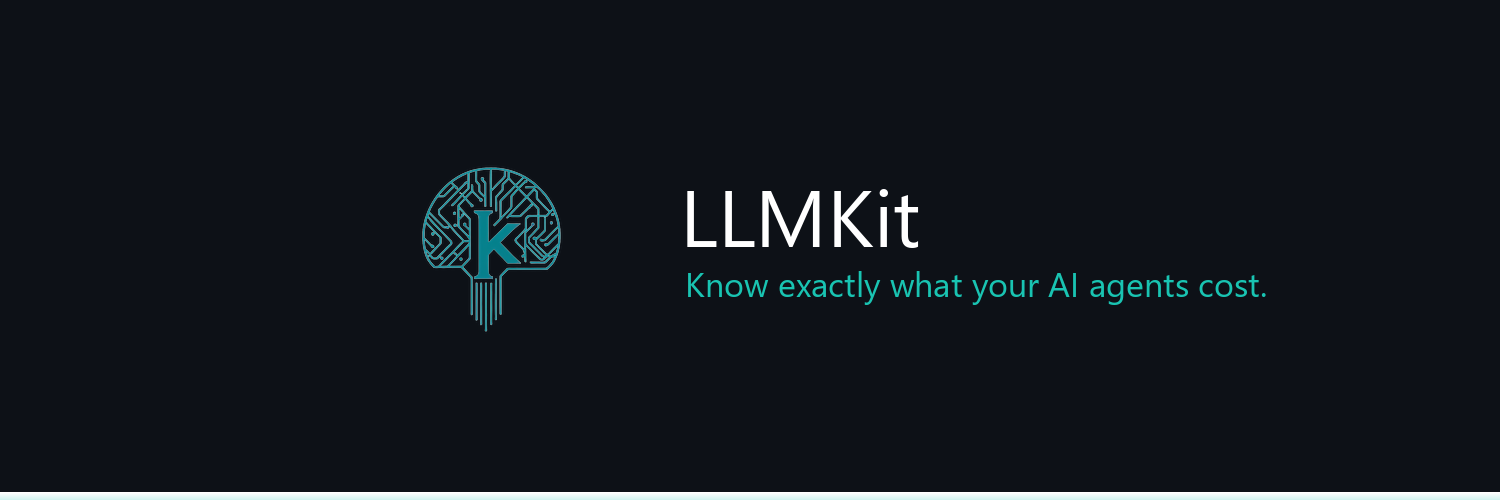
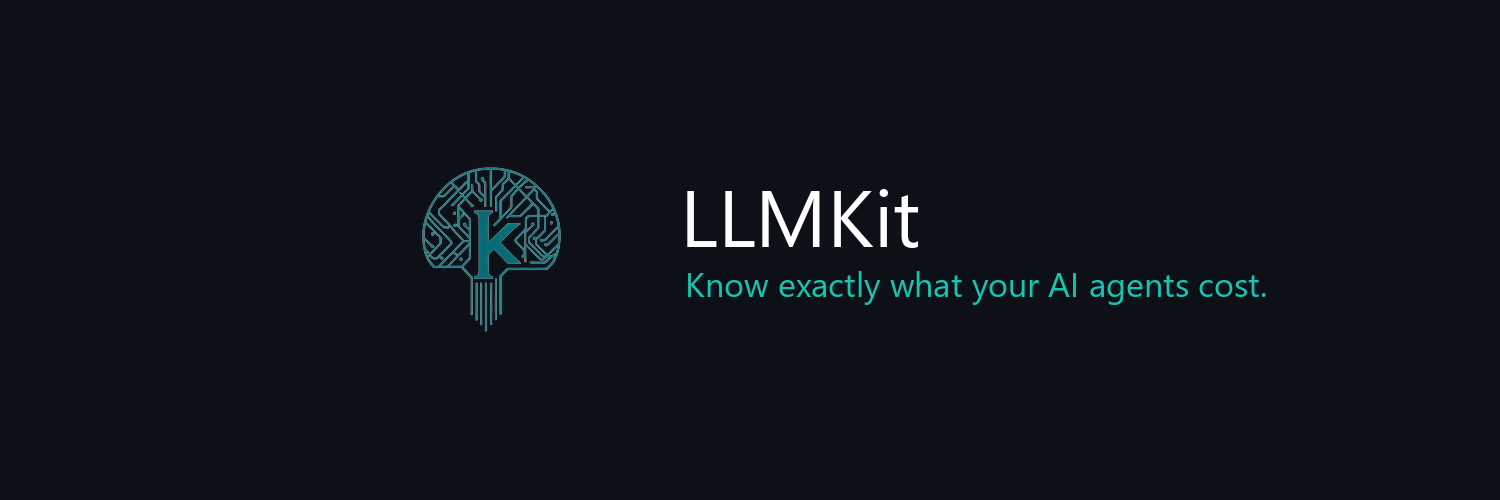
add built with claude code section, mcpb bundle setup, x assets update
readme now credits claude code (140/148 commits co-authored). mcpb
manifest and ignore file for anthropic directory submission. updated
x profile assets with matching colors.

diff --git a/README.md b/README.md
@@ -362,6 +362,10 @@ npx wrangler secret put ENCRYPTION_KEY
 npx wrangler deploy
 ```
 
+## Built with Claude Code
+
+This entire project was built using [Claude Code](https://claude.ai/claude-code). 140 of 148 commits are co-authored with Claude across 25 days of development.
+
 ## License
 
 MIT
